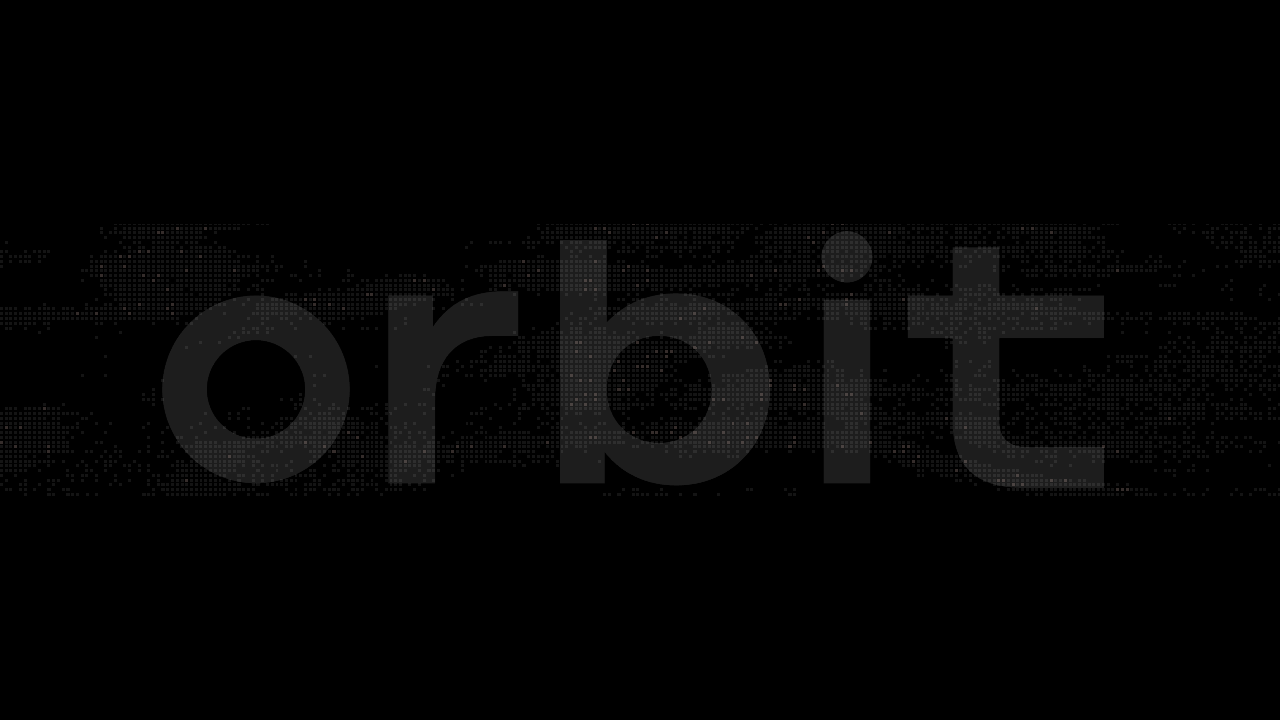
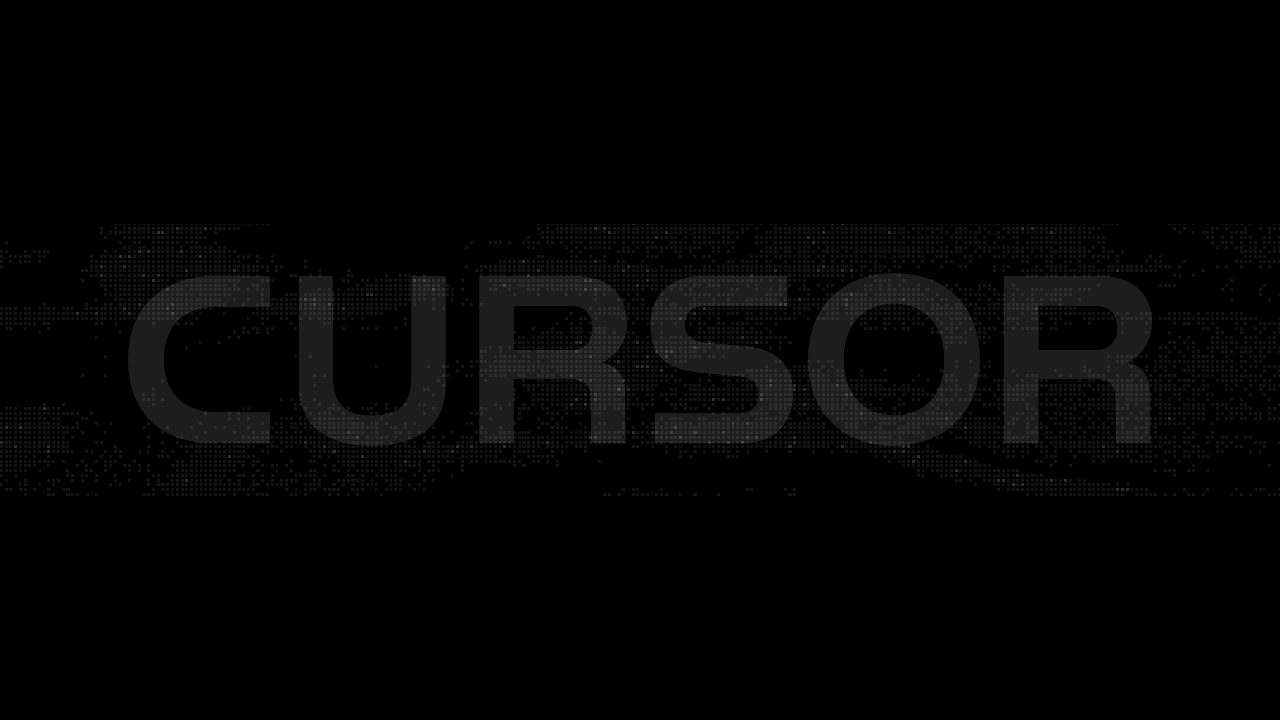
Use the official Cursor wordmark in the shader demo

Changed region(s): [[0.0938, 0.3056, 0.9062, 0.7028]]

diff --git a/designs/wordmark-distortion/wordmark.spec.ts b/designs/wordmark-distortion/wordmark.spec.ts
@@ -30,7 +30,7 @@ async function frameHash(page: Page) {
 test('the wordmark deforms under the pointer and returns to the exact original frame', async ({ page }) => {
   await instrument(page);
   await page.goto('/designs/wordmark-distortion/?still');
-  const host = page.getByRole('img', { name: 'Orbit', exact: true });
+  const host = page.getByRole('img', { name: 'Cursor', exact: true });
   await expect(host).toHaveAttribute('data-state', 'idle');
   await expect(host.locator('canvas')).toHaveCount(1);
   await expect(host).toHaveAttribute('data-draw-calls', '1');
@@ -65,7 +65,7 @@ test('the original SVG stays visible when WebGL is unavailable', async ({ page }
     } as typeof getContext;
   });
   await page.goto('/designs/wordmark-distortion/');
-  const host = page.getByRole('img', { name: 'Orbit', exact: true });
+  const host = page.getByRole('img', { name: 'Cursor', exact: true });
   await expect(host).toHaveAttribute('data-state', 'fallback');
   await expect(host.locator('canvas')).toHaveCount(0);
   await expect(host.locator('img')).toBeVisible();

diff --git a/designs/wordmark-distortion/src/main.tsx b/designs/wordmark-distortion/src/main.tsx
@@ -1,16 +1,16 @@
 import { StrictMode } from 'react';
 import { createRoot } from 'react-dom/client';
 import { WordmarkDistortion } from './WordmarkDistortion';
-import orbit from '../assets/orbit.svg';
+import cursor from '../assets/cursor.svg';
 import './styles.css';
 
 createRoot(document.getElementById('root')!).render(
   <StrictMode>
     <main className="page">
       <WordmarkDistortion
-        src={orbit}
-        alt="Orbit"
-        aspect={4}
+        src={cursor}
+        alt="Cursor"
+        aspect={1655.29 / 278.83}
         animateBackground={!new URLSearchParams(location.search).has('still')}
         className="wordmark-band"
       />

diff --git a/index.html b/index.html
@@ -49,7 +49,7 @@
           <a class="design" href="./designs/wordmark-distortion/">
             <figure>
               <div class="preview">
-                <img src="./designs/wordmark-distortion/preview.webp" width="1280" height="720" alt="A dark Orbit wordmark over drifting fields of small gray squares.">
+                <img src="./designs/wordmark-distortion/preview.webp" width="1280" height="720" alt="A dark Cursor wordmark over drifting fields of small gray squares.">
                 <span class="open" aria-hidden="true">↗</span>
               </div>
               <figcaption>

diff --git a/designs/wordmark-distortion/README.md b/designs/wordmark-distortion/README.md
@@ -14,4 +14,4 @@ Mouse and touch use the same displacement field. Reduced motion keeps the logo s
 
 The background is a fixed grid of 3px squares with 1.75px gaps. Three-octave simplex noise and domain warping control visibility. The grid and displaced logo share one plane and one draw call.
 
-`animateBackground={false}` freezes the pixel field while keeping pointer interaction. The demo accepts `?still` for this mode. `assets/orbit.svg` is an original example wordmark; replace it with any transparent logo.
+`animateBackground={false}` freezes the pixel field while keeping pointer interaction. The demo accepts `?still` for this mode. `assets/cursor.svg` uses the official wordmark from [Cursor's brand assets](https://cursor.com/brand), with the demo's low contrast treatment. Replace it with any transparent logo.
